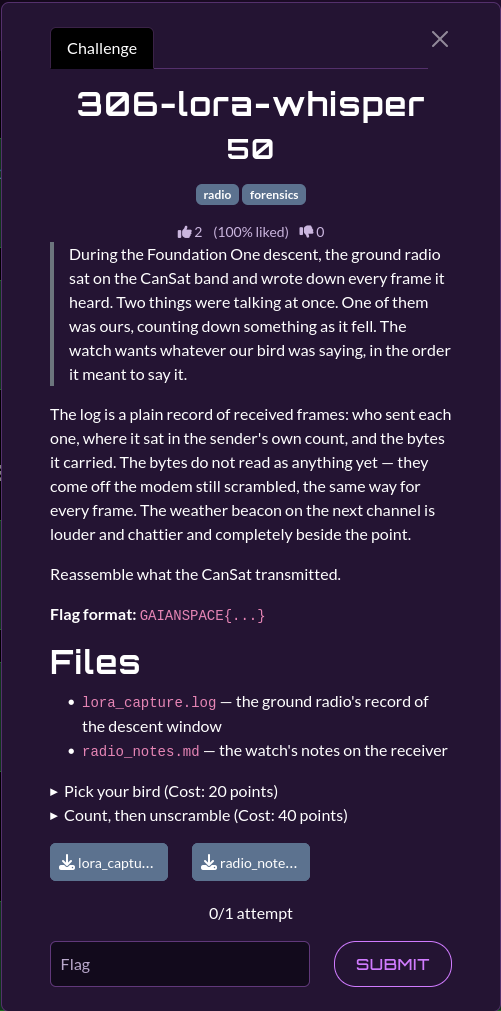
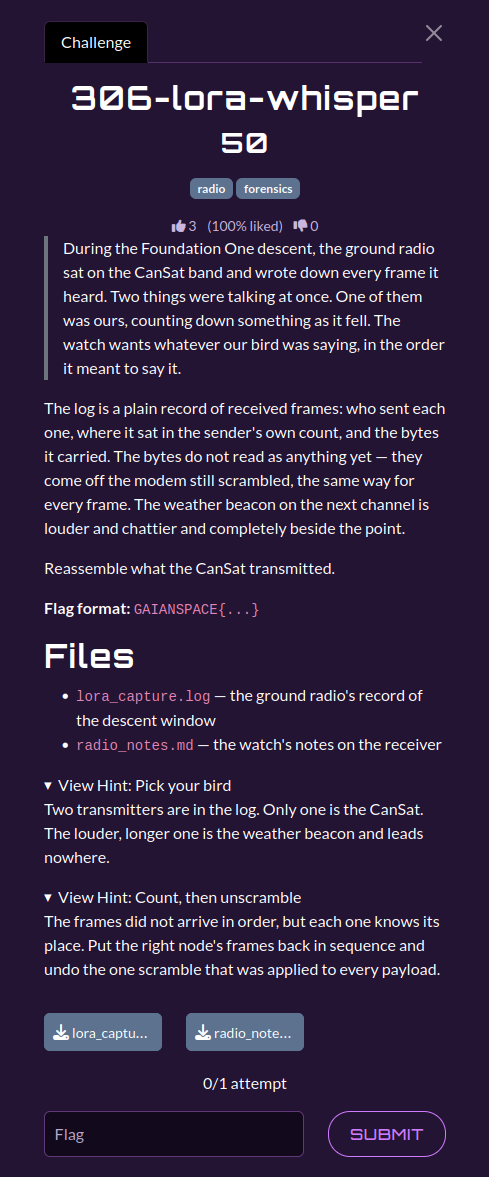
Update README.md

diff --git a/03-orbital-oops-at-mission-control/303-gerber-grab-crack/README.md b/03-orbital-oops-at-mission-control/303-gerber-grab-crack/README.md
@@ -19,6 +19,13 @@ Recover the stolen board and read the fabricator's note.
 - `exfil_upload.pcap` — the corporate capture of the outbound transfer
 - `attacker_disk.img` — the staging disk pulled off the host
 
+## Hints
+
+Two hints were released during the event:
+
+1. **The tool tells on itself** — The disk carries the program that scrambled the file. Read it. Its key comes straight from a phrase it keeps in the open. There is more than one job on the wire and more than one key on the disk, including one the listing does not show; an older job opens under an older phrase but is not the board you were sent, so match the key to the job before you spend your one attempt.
+2. **Rebuild, then open** — The board files did not go out in one piece. Two uploads of that job carry an offset header; put the pieces together in offset order, not the order they were sent, before you undo anything. The status call afterwards gives the finished length and hash so you can check the join. Then base64-decode, decrypt with the key the tool uses, unzip, and read the note in the silkscreen file.
+
 ## Solution
 
 ### Analysis

diff --git a/03-orbital-oops-at-mission-control/304-pcb-puzzle-probe/README.md b/03-orbital-oops-at-mission-control/304-pcb-puzzle-probe/README.md
@@ -19,6 +19,13 @@ Pass the review to get its assessment.
 - `foundation_one_gerbers.zip` — the recovered Foundation One board files
 - The original description also referenced a review service (`server.py`, `Dockerfile`, `docker-compose.yml`), but these server files are not present in the archived ZIP.
 
+## Hints
+
+Two hints were released during the event:
+
+1. **Read, do not guess** — Every answer is visible in the Gerber set — the layer stack, the outline, the reference designators, the labels, the pad counts. A viewer shows all of it.
+2. **What should not be there** — One header on this board is wide open for anyone with a probe. Its silkscreen label names it outright.
+
 ## Solution
 
 ### Analysis

diff --git a/03-orbital-oops-at-mission-control/301-email-entrapment/README.md b/03-orbital-oops-at-mission-control/301-email-entrapment/README.md
@@ -18,6 +18,13 @@ Recover the attachment and read what is inside.
 **Attachments:**
 - `mem.dmp` — a dump of the engineer's working memory, taken before shutdown
 
+## Hints
+
+Two hints were released during the event:
+
+1. **Dressed as a contract** — Ignore the cached password the desk is excited about. Look for the whole mail, headers and all, sitting in the dump as plain text. It knows who it claims to be from.
+2. **Carried in, not written in** — The attachment travels encoded inside the mail, so searching the dump for the answer directly finds nothing. Lift the encoded block out, turn it back into a file, and open that.
+
 ## Solution
 
 ### Analysis

diff --git a/03-orbital-oops-at-mission-control/306-lora-whisper/README.md b/03-orbital-oops-at-mission-control/306-lora-whisper/README.md
@@ -19,6 +19,13 @@ Reassemble what the CanSat transmitted.
 - `lora_capture.log` — the ground radio's record of the descent window
 - `radio_notes.md` — the watch's notes on the receiver
 
+## Hints
+
+Two hints were released during the event:
+
+1. **Pick your bird** — Two transmitters are in the log. Only one is the CanSat. The louder, longer one is the weather beacon and leads nowhere.
+2. **Count, then unscramble** — The frames did not arrive in order, but each one knows its place. Put the right node's frames back in sequence and undo the one scramble that was applied to every payload.
+
 ## Solution
 
 ### Analysis

diff --git a/03-orbital-oops-at-mission-control/305-satellite-sabotage-sim/README.md b/03-orbital-oops-at-mission-control/305-satellite-sabotage-sim/README.md
@@ -19,6 +19,13 @@ Get the CanSat to dump its service telemetry.
 - `foundation_one_fw.py` — the flight firmware, running on the bench rig
 - `Dockerfile, docker-compose.yml` — to stand the rig up yourself
 
+## Hints
+
+Two hints were released during the event:
+
+1. **Maintenance only** — The service page is locked behind a key you do not have. Do not try to guess the key. Find the frame that lets you decide what the key is.
+2. **Too much to hold** — One command loads a block without checking how big the block is. What sits just past that block is what the lock checks against.
+
 ## Solution
 
 ### Analysis

diff --git a/03-orbital-oops-at-mission-control/302-web-wormhole/README.md b/03-orbital-oops-at-mission-control/302-web-wormhole/README.md
@@ -18,6 +18,13 @@ Find what the portal actually planted.
 **Attachments:**
 - `drive_by.pcap` — corporate capture of the browser visit
 
+## Hints
+
+Two hints were released during the event:
+
+1. **Pull the objects** — Reassemble the files the browser downloaded. Most are harmless decoration. One is a script that does more than decorate.
+2. **Folded, not written** — Searching the capture for the answer finds nothing, because the script carries its real body folded up as text. Unfold that text and read what it sets.
+
 ## Solution
 
 ### Analysis

diff --git a/03-orbital-oops-at-mission-control/307-descent-diary/README.md b/03-orbital-oops-at-mission-control/307-descent-diary/README.md
@@ -18,6 +18,13 @@ Read what the descent diary was hiding.
 **Attachments:**
 - `descent_log.csv` — the full sensor diary of the descent
 
+## Hints
+
+Two hints were released during the event:
+
+1. **Not the barometer** — The altitude curve is a distraction. Look at the sensor whose two channels mean nothing on their own.
+2. **Let it draw** — Those two channels are coordinates, not a time series. Plot one against the other and stop reading them as numbers.
+
 ## Solution
 
 ### Analysis
